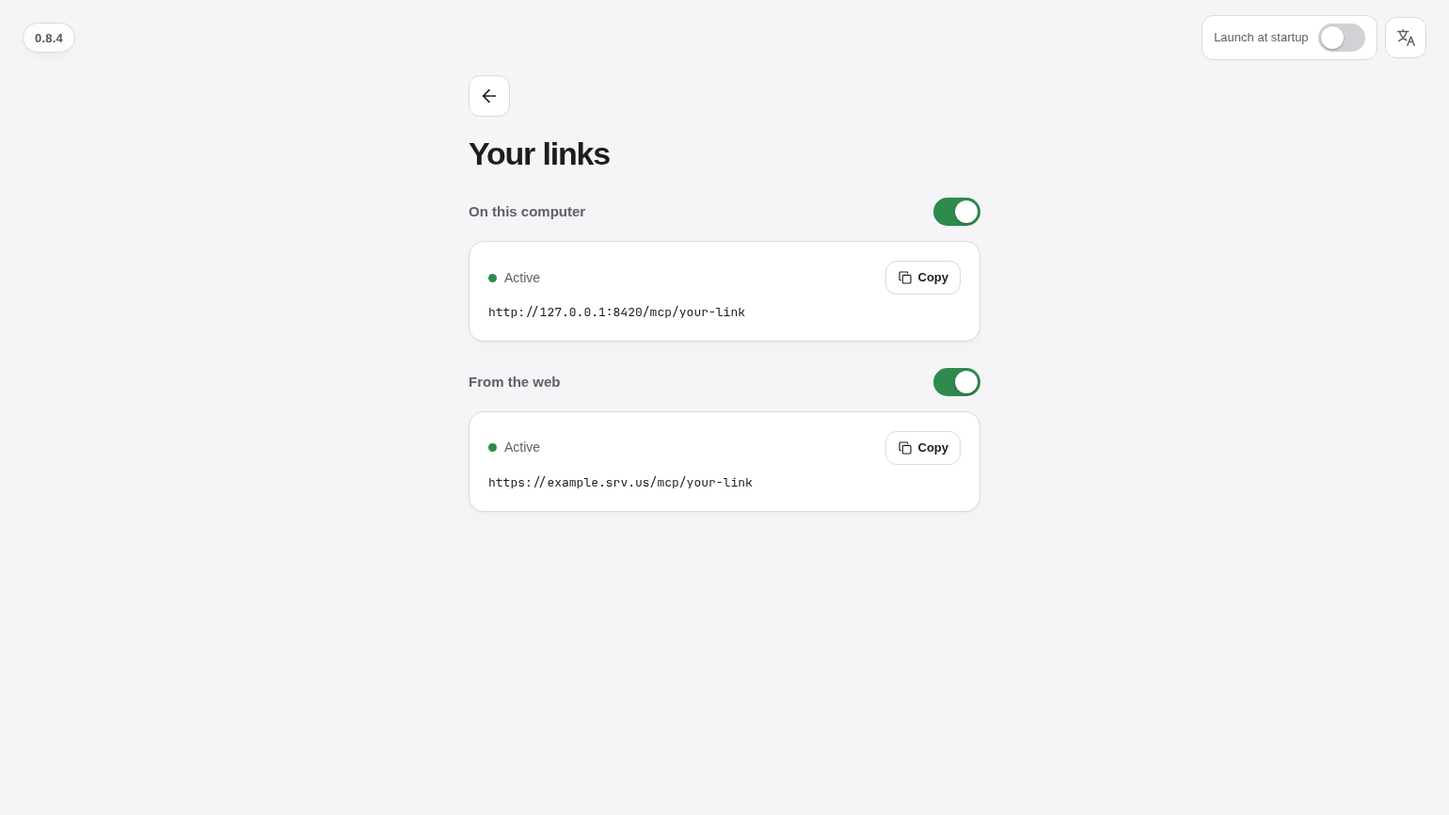
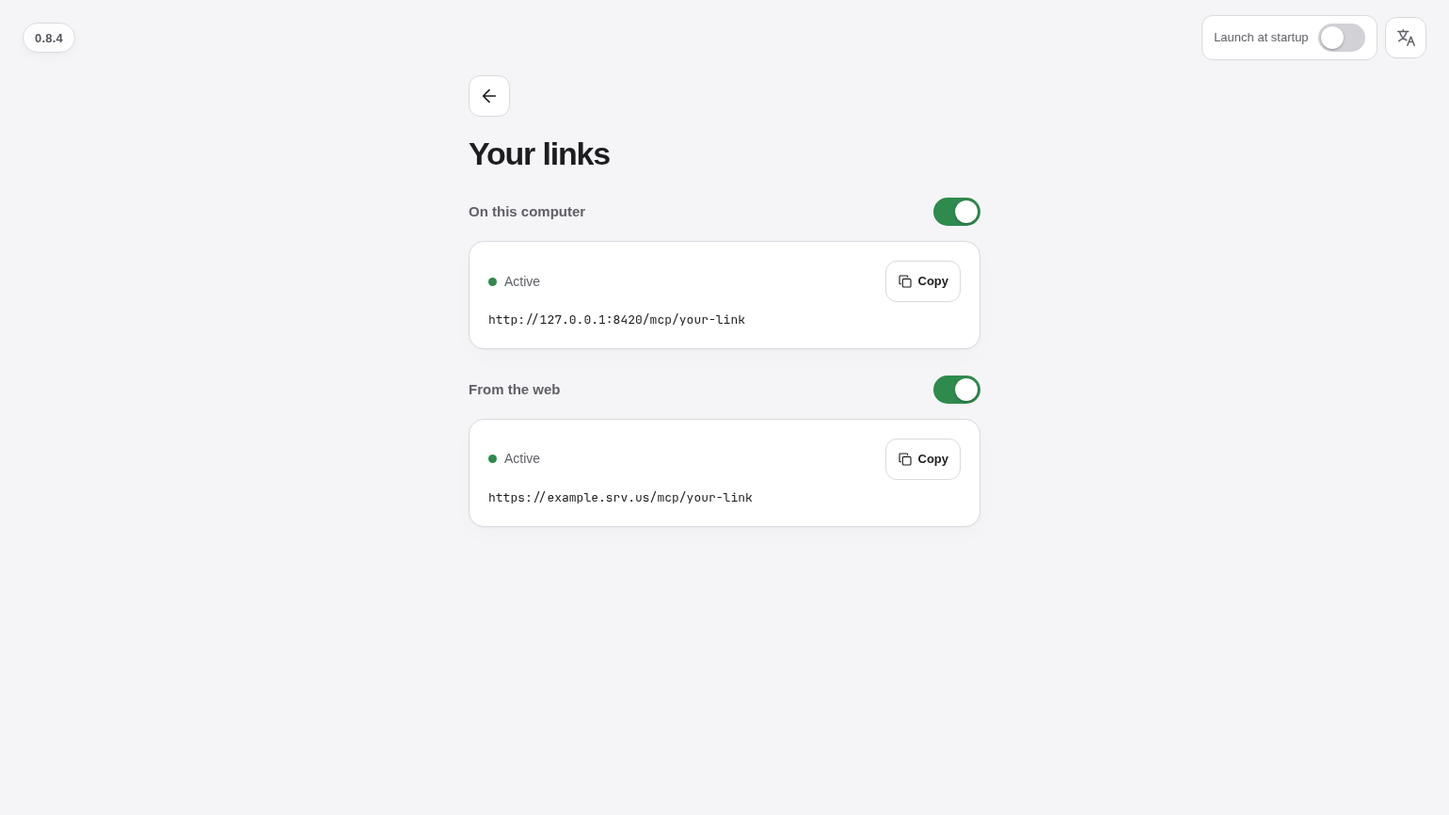
fix: polish assistant setup and home links

diff --git a/src/resources/web/app.js b/src/resources/web/app.js
@@ -7,6 +7,7 @@ if(!languages.includes(language))language='en';
 const translations={
  'Web':['Web','Web'], 'On this computer':['Sur cet ordinateur','En este ordenador'],
  'Choose an assistant app':['Choisis une application assistante','Elige una aplicación asistente'],
+ 'Detected apps':['Applications détectées','Aplicaciones detectadas'], 'Not detected apps':['Applications non détectées','Aplicaciones no detectadas'],
  'Scan again':['Relancer le scan','Volver a buscar'], 'Scanning…':['Recherche…','Buscando…'],
  'Detected':['Détectée','Detectada'], 'Not detected':['Non détectée','No detectada'],
  'Settings saved':['Réglages enregistrés','Ajustes guardados'],
@@ -53,7 +54,7 @@ const translations={
  'Loading tools…':['Chargement des outils…','Cargando herramientas…'],
  'Could not load tools.':['Impossible de charger les outils.','No se pudieron cargar las herramientas.'],
  'No tools available.':['Aucun outil disponible.','No hay herramientas disponibles.'],
-  'Your link':['Ton lien','Tu enlace'], 'Your links':['Tes liens','Tus enlaces'], 'View tools':['Voir les outils','Ver herramientas'], 'Check connection':['Vérifier la connexion','Comprobar conexión'], 'Account information':['Informations du compte','Información de la cuenta'], 'Connection':['Connexion','Conexión'], 'On':['Activé','Activado'], 'Launch at startup':['Lancer au démarrage','Iniciar al arrancar'],
+  'Your link':['Ton lien','Tu enlace'], 'Confirm removal':['Confirmer le retrait','Confirmar retirada'], 'Your links':['Tes liens','Tus enlaces'], 'View tools':['Voir les outils','Ver herramientas'], 'Check connection':['Vérifier la connexion','Comprobar conexión'], 'Account information':['Informations du compte','Información de la cuenta'], 'Connection':['Connexion','Conexión'], 'On':['Activé','Activado'], 'Launch at startup':['Lancer au démarrage','Iniciar al arrancar'],
  'Search your school':['Recherche ton établissement','Busca tu institución'], 'No school found':['Aucun établissement trouvé','No se encontró la institución'],
  'Copy':['Copier','Copiar'],
  'Your assistant':['Ton assistant','Tu asistente'],
@@ -452,28 +453,16 @@ function guideCapture(file,caption){const path='/assets/'+file+'.webp';return `<
  function guideFields(fields){return `<dl class="journey-fields">${fields.map(([label,value])=>`<div class="journey-field"><dt>${t(label)}</dt><dd>${esc(t(value))}</dd></div>`).join('')}</dl>`}
  function guidePath(items){return `<ol class="guide-path" aria-label="${t('Click path')}">${items.map(text=>`<li><span data-server-text>${esc(t(text))}</span></li>`).join('')}</ol>`}
 function guideOpen(id){return `<a class="full-button primary guide-link" href="${assistantInfo[id].settings}" target="_blank" rel="noopener noreferrer">${t('Open '+assistantInfo[id].name+' settings')} <span aria-hidden="true">↗</span></a>`}
-function assistantLocal(id){
- const status=state.assistantStatus,name=localAssistants.items?.find(app=>app.assistant===id)?.name||assistantInfo[id]?.name||id;
- if(!status)return `<div class="assistant-local" id="assistant-local"><p class="busy" role="status">${t('Checking local setup…')}</p><button class="local-close" data-assistant-cancel>${t('Cancel')}</button></div>`;
- if(!status.detected)return `<div class="assistant-local local-unavailable" id="assistant-local"><div class="assistant-local-copy" role="status"><i class="status-dot offline" aria-hidden="true"></i><strong>${esc(name)} · ${t('Not detected')}</strong></div><button class="local-close" data-assistant-cancel>${t('Close')}</button></div>`;
- if(status.configured){
-  const reload=status.reload==='automatic'?t('Settings apply automatically in OpenCode.'):status.reload==='mcp'?t('Reload MCP in the app to use the saved settings.'):t('Restart the assistant to finish setup.');
-  if(state.assistantRemoveConfirm)return `<div class="assistant-local" id="assistant-local"><div class="assistant-confirm"><p>${t('Remove student-mcp from this app? Your other MCP servers stay unchanged and a backup is created.')}</p><div class="assistant-confirm-actions"><button class="full-button secondary" data-assistant-remove-cancel ${state.assistantBusy?'disabled':''}>${t('Cancel')}</button><button class="full-button danger" data-assistant-remove-confirm="${id}" ${state.assistantBusy?'disabled':''}>${state.assistantBusy?t('Removing…'):t('Remove setup')}</button></div></div></div>`;
-  return `<div class="assistant-local" id="assistant-local"><div class="assistant-local-copy"><i class="status-dot" aria-hidden="true"></i><div><strong>${esc(name)} · ${t('Configured')}</strong><p>${reload}</p></div></div><div class="assistant-actions"><button class="text-button" data-assistant-remove="${id}" ${state.assistantBusy?'disabled':''}>${t('Remove setup')}</button><button class="local-close" data-assistant-cancel>${t('Close')}</button></div></div>`;
- }
- return `<div class="assistant-local" id="assistant-local"><div class="assistant-local-copy"><div><strong>${esc(name)}</strong></div></div><div class="assistant-confirm"><p>${t('This updates the assistant’s MCP settings. Your other servers stay unchanged and a backup is created.')}</p><div class="assistant-confirm-actions"><button class="full-button secondary" data-assistant-cancel ${state.assistantBusy?'disabled':''}>${t('Cancel')}</button><button class="full-button primary" data-assistant-confirm="${id}" ${state.assistantBusy?'disabled':''}>${state.assistantBusy?t('Connecting…'):t('Confirm setup')}</button></div></div></div>`;
-}
-
 const localLogos={'claude':'/assets/claude.png','claude-code':'/assets/local-claude-code.png',codex:'/assets/chatgpt.png',gemini:'/assets/gemini.png','grok-build':'/assets/grok.png',opencode:'/assets/local-opencode.png',cursor:'/assets/local-cursor.png',vscode:'/assets/local-vscode.png',windsurf:'/assets/local-windsurf.png',qwen:'/assets/local-qwen.png',pi:'/assets/local-pi.png',omp:'/assets/local-omp.png',kiro:'/assets/local-kiro.png',amp:'/assets/local-amp.png',crush:'/assets/local-crush.png',devin:'/assets/local-devin.png'};
 function localAppCard(app){
  const selected=localAssistants.selected===app.assistant,mark=app.name.replace(/[^A-Za-z0-9]/g,'').slice(0,2),logo=localLogos[app.assistant];
  const visual=logo?`<img class="local-app-logo" src="${logo}" alt="" width="128" height="128" loading="lazy" decoding="async">`:`<span class="local-app-mark" aria-hidden="true">${esc(mark)}</span>`;
- const statusText=t(!app.detected?'Not detected':app.configured?'Configured':'Detected');
- return `<li class="local-app-item${selected?' is-selected':''}"><button class="local-app-card${app.configured?' is-ready':''}" data-local-assistant="${esc(app.assistant)}" aria-pressed="${selected}" ${!app.detected||state.assistantBusy||localAssistants.scanning?'disabled':''}>${visual}<span class="local-app-copy"><span class="local-app-name">${esc(app.name)}</span></span>${selected?'':`<span class="local-app-state">${statusText}</span>`}</button>${selected?`<button class="local-inline-action ${app.configured?'is-remove':'is-setup'}" ${app.configured?`data-assistant-remove="${esc(app.assistant)}"`:`data-assistant-confirm="${esc(app.assistant)}"`} ${state.assistantBusy?'disabled':''}>${t(app.configured?'Remove setup':state.assistantBusy?'Connecting…':'Confirm setup')}</button>`:''}</li>`;
+ const statusText=app.configured?t('Configured'):'';
+ return `<li class="local-app-item${selected?' is-selected':''}"><button class="local-app-card${app.configured?' is-ready':''}" data-local-assistant="${esc(app.assistant)}" aria-pressed="${selected}" ${!app.detected||state.assistantBusy||localAssistants.scanning?'disabled':''}>${visual}<span class="local-app-copy"><span class="local-app-name">${esc(app.name)}</span></span>${!selected&&statusText?`<span class="local-app-state">${statusText}</span>`:''}</button>${selected?`<button class="local-inline-action ${app.configured?'is-remove':'is-setup'}" ${app.configured?`data-assistant-remove="${esc(app.assistant)}"`:`data-assistant-confirm="${esc(app.assistant)}"`} ${state.assistantBusy?'disabled':''}>${t(app.configured?(state.assistantBusy?'Removing…':'Remove setup'):state.assistantBusy?'Connecting…':'Confirm setup')}</button>`:''}</li>`;
 }
 function localAppsScreen(){
  const items=localAssistants.items||[],found=items.filter(app=>app.detected),missing=items.filter(app=>!app.detected);
- return `<section class="local-apps" aria-labelledby="local-apps-title"><header class="local-apps-head"><h2 id="local-apps-title" class="section-label">${t('Choose an assistant app')}</h2><button class="local-scan" data-assistant-scan ${state.assistantBusy||localAssistants.scanning?'disabled':''}>${icon('refresh')}<span>${t(localAssistants.scanning?'Scanning…':'Scan again')}</span></button></header><div role="status" aria-live="polite">${localAssistants.scanning?`<p class="busy">${t('Scanning…')}</p>`:''}${localAssistants.error?`<p class="local-scan-error" role="alert">${esc(localAssistants.error)}</p>`:''}${!localAssistants.scanning&&localAssistants.items&&!found.length?`<p class="local-note">${t('No supported local app was found.')}</p>`:''}</div><ul class="local-app-list">${found.map(localAppCard).join('')}</ul>${localAssistants.selected&&state.assistantRemoveConfirm?assistantLocal(localAssistants.selected):''}${missing.length?`<details class="other-apps"><summary>${t('Other apps')} (${missing.length})</summary><ul class="local-app-list is-muted">${missing.map(localAppCard).join('')}</ul></details>`:''}</section>`;
+ return `<section class="local-apps" aria-labelledby="local-apps-title"><header class="local-apps-head"><h2 id="local-apps-title" class="section-label">${t('Detected apps')}</h2><button class="local-scan" data-assistant-scan ${state.assistantBusy||localAssistants.scanning?'disabled':''}>${icon('refresh')}<span>${t(localAssistants.scanning?'Scanning…':'Scan again')}</span></button></header><div role="status" aria-live="polite">${localAssistants.scanning?`<p class="busy">${t('Scanning…')}</p>`:''}${localAssistants.error?`<p class="local-scan-error" role="alert">${esc(localAssistants.error)}</p>`:''}${!localAssistants.scanning&&localAssistants.items&&!found.length?`<p class="local-note">${t('No supported local app was found.')}</p>`:''}</div><ul class="local-app-list">${found.map(localAppCard).join('')}</ul>${missing.length?`<details class="other-apps"><summary>${t('Not detected apps')} (${missing.length})</summary><ul class="local-app-list is-muted">${missing.map(localAppCard).join('')}</ul></details>`:''}</section>`;
 }
 
 async function scanAssistants(){if(localAssistants.scanning||state.assistantBusy)return;localAssistants.scanning=true;localAssistants.error=null;localAssistants.selected=null;state.assistantConfirm=false;render();try{const result=await api('/assistants');localAssistants.items=result.assistants}catch(error){localAssistants.error=error.message}finally{localAssistants.scanning=false;if(state.screen==='assistant')render()}}
@@ -503,7 +492,7 @@ function assistantGuide(id){
 }
 function assistantScreen(){
   const id=state.assistant,info=assistantInfo[id],step=assistantJourney.step;
-  const heading=`<header class="assistant-heading"><div class="page-nav"><button class="back" data-screen="home" aria-label="${t('Back to services')}">${icon('back')}</button></div><h1>${t('Set up an assistant')}</h1></header>${assistantModes()}`;
+  const heading=`<header class="assistant-heading">${pageNav('home','Back to services')}<h1>${t('Set up an assistant')}</h1></header>${assistantModes()}`;
   if(localAssistants.mode==='local')return `<section style="--accent:var(--blue)">${heading}${localAppsScreen()}${notice()}</section>`;
  const labels=['Open settings','Add the server','Ask a question'],short=['Settings','Connect','Try it'];
  const guide=assistantGuide(id);
@@ -512,7 +501,7 @@ function assistantScreen(){
 async function openAssistant(id){if(!assistantInfo[id]||state.assistantBusy)return;localAssistants.mode='web';state.assistant=id;assistantJourney.step=0;state.assistantStatus=null;state.assistantConfirm=false;state.assistantRemoveConfirm=false;state.notice=null;state.screen='assistant';render()}
 async function configureAssistant(id){if(state.assistantBusy||localAssistants.selected!==id||localAssistants.items.find(app=>app.assistant===id)?.configured)return;state.assistantBusy=true;state.notice=null;render();try{const status=await api('/action',{action:'assistant_setup',assistant:id});state.assistantStatus=status;state.assistantConfirm=false;localAssistants.items=localAssistants.items.map(app=>app.assistant===id?{...app,...status}:app)}catch(error){state.notice={text:error.message,error:true}}finally{state.assistantBusy=false;if(state.screen==='assistant'){render();if(localAssistants.mode==='local')document.querySelector('.local-inline-action')?.focus({preventScroll:true})}}}
 async function removeAssistant(id){
- if(state.assistantBusy||localAssistants.selected!==id||!state.assistantRemoveConfirm)return;
+ if(state.assistantBusy||localAssistants.selected!==id||!localAssistants.items.find(app=>app.assistant===id)?.configured)return;
  state.assistantBusy=true;state.notice=null;render();
  try{
   const status=await api('/action',{action:'assistant_remove',assistant:id});
@@ -828,7 +817,7 @@ function findField(){const query=state.draft.school||'';const matches=schoolMatc
 // Mise à jour en place : re-rendre l'écran déplacerait le curseur au début du champ.
 function renderFindList(){const input=$('school-find');if(!input)return;const query=state.draft.school||'';const matches=schoolMatches(query);const find=input.closest('.find');let list=find.querySelector('.find-list');if(query.trim().length<2){list?.remove();input.setAttribute('aria-expanded','false');input.removeAttribute('aria-activedescendant');return}if(!list){list=document.createElement('div');list.className='find-list';list.id='find-list';list.setAttribute('role','listbox');list.setAttribute('aria-label',t('Search your school'));find.appendChild(list)}list.innerHTML=findRows(matches);input.setAttribute('aria-expanded','true');if(state.schoolIndex>=0)input.setAttribute('aria-activedescendant','find-opt-'+state.schoolIndex);else input.removeAttribute('aria-activedescendant')}
 function mapLines(){return `<svg class="map-lines" aria-hidden="true"><defs><linearGradient id="map-branch-gradient" gradientUnits="userSpaceOnUse" x1="0" y1="0" x2="1" y2="1"><stop offset="0" stop-color="#b7c9dc"/><stop offset="1" stop-color="#7899bd"/></linearGradient></defs><g class="map-paths"></g></svg>`}
-function home(){const tiles=['moodle','omnivox','brightspace','canvas'].map(s=>{const ofService=state.accounts.filter(a=>a.service===s),connected=ofService.length>0,enabled=ofService.some(a=>a.enabled!==false);return `<button class="tile ${connected?'connected':''} ${connected&&!enabled?'service-off':''}" data-open="${s}" aria-label="${names[s]} ${connected?'manage connection':'connect'}"><img src="/assets/${s}.png" alt=""><span>${names[s]}</span>${connected?'<i class="dot"></i>':''}</button>`}).join('');const ready=state.tunnel.startsWith('Ready(');const value=ready?state.link:state.tunnel.startsWith('Starting')?t('Creating your public link…'):state.tunnel.startsWith('Reconnecting')?t('Reconnecting your public link…'):state.tunnel.startsWith('Failed')?t('Unavailable'):state.tunnel==='Stopped'?t('Off'):t('Connect a service to create your link');return `<section class="home"><h1 class="sr-only">${t('Student MCP')}</h1>${findField()}<div class="mind-map">${mapLines()}<div class="tiles">${tiles}</div><div class="link-card"><button class="link-open" data-copy="home" aria-label="${t('Copy link')}" ${ready?'':'disabled'}><span class="link-title">${t('Your public link')}</span><span class="link-value">${esc(value)}</span></button><button class="icon-button copy-home" data-screen="links" aria-label="${t('Open link settings')}" title="${t('Open link settings')}">${icon('settings')}</button></div><div class="ais"><button class="assistant-entry" data-assistant-choose>${icon('spark')}<span>${t('Set up an assistant')}</span><span class="assistant-entry-arrow" aria-hidden="true">›</span></button></div></div>${notice()}</section>`}
+function home(){const tiles=['moodle','omnivox','brightspace','canvas'].map(s=>{const ofService=state.accounts.filter(a=>a.service===s),connected=ofService.length>0,enabled=ofService.some(a=>a.enabled!==false);return `<button class="tile ${connected?'connected':''} ${connected&&!enabled?'service-off':''}" data-open="${s}" aria-label="${names[s]} ${connected?'manage connection':'connect'}"><img src="/assets/${s}.png" alt=""><span>${names[s]}</span>${connected?'<i class="dot"></i>':''}</button>`}).join('');const ready=state.tunnel.startsWith('Ready(');const value=ready?state.link:state.tunnel.startsWith('Starting')?t('Creating your public link…'):state.tunnel.startsWith('Reconnecting')?t('Reconnecting your public link…'):state.tunnel.startsWith('Failed')?t('Unavailable'):state.tunnel==='Stopped'?t('Off'):t('Connect a service to create your link');return `<section class="home"><h1 class="sr-only">${t('Student MCP')}</h1>${findField()}<div class="mind-map">${mapLines()}<div class="tiles">${tiles}</div><div class="link-card"><button class="link-open" data-screen="links" aria-label="${t('Open link settings')}"><span class="link-title">${t('Your public link')}</span><span class="link-value">${esc(value)}</span></button><button class="copy-pill copy-home" data-copy="home" aria-label="${t('Copy link')}" ${ready?'':'disabled'}>${icon('copy')}<span>${t('Copy')}</span></button></div><div class="ais"><button class="assistant-entry" data-assistant-choose>${icon('spark')}<span>${t('Set up an assistant')}</span><span class="assistant-entry-arrow" aria-hidden="true">›</span></button></div></div>${notice()}</section>`}
 let mindMapFrame=0;
 function scheduleMindMap(){cancelAnimationFrame(mindMapFrame);mindMapFrame=requestAnimationFrame(drawMindMap)}
 function drawMindMap(){
@@ -975,7 +964,7 @@ document.addEventListener('click',async e=>{
   if(e.target.closest('[data-assistant-scan]')){await scanAssistants();return}
   const localApp=e.target.closest('[data-local-assistant]');if(localApp&&!state.assistantBusy&&!localAssistants.scanning){localAssistants.selected=localAssistants.selected===localApp.dataset.localAssistant?null:localApp.dataset.localAssistant;state.assistantStatus=localAssistants.items.find(app=>app.assistant===localAssistants.selected);state.assistantConfirm=false;state.assistantRemoveConfirm=false;state.notice=null;render();if(localAssistants.selected)document.querySelector('.local-inline-action')?.focus();return}
   const assistantConfirm=e.target.closest('[data-assistant-confirm]');if(assistantConfirm&&!state.assistantBusy){await configureAssistant(assistantConfirm.dataset.assistantConfirm);return}
-  const assistantRemove=e.target.closest('[data-assistant-remove]');if(assistantRemove&&!state.assistantBusy){state.assistantRemoveConfirm=true;state.notice=null;render();return}
+  const assistantRemove=e.target.closest('[data-assistant-remove]');if(assistantRemove&&!state.assistantBusy){await removeAssistant(assistantRemove.dataset.assistantRemove);return}
   if(e.target.closest('[data-assistant-remove-cancel]')&&!state.assistantBusy){state.assistantRemoveConfirm=false;render();return}
   const assistantRemoveConfirm=e.target.closest('[data-assistant-remove-confirm]');if(assistantRemoveConfirm&&!state.assistantBusy){await removeAssistant(assistantRemoveConfirm.dataset.assistantRemoveConfirm);return}
   if(e.target.closest('[data-assistant-cancel]')&&!state.assistantBusy){const id=localAssistants.selected;state.assistantConfirm=false;state.assistantRemoveConfirm=false;render();document.querySelector(`[data-local-assistant="${id}"]`)?.focus({preventScroll:true});return}
@@ -1022,6 +1011,7 @@ document.addEventListener('click',async e=>{
 });
 function connectReady(form){const v=Object.fromEntries(new FormData(form)),a=selected();if(state.service==='moodle')return !!v.username&&!!v.password;if(state.service==='omnivox')return !!(v.url||a?.url)&&!!v.username&&!!v.password;if(state.service==='brightspace')return brightspaceReady(v,a);return !!(v.url||a?.url)&&(!!v.token||!!v.username&&!!v.password)}
 document.addEventListener('submit',e=>{if(e.target.id!=='profile-name-form')return;e.preventDefault();send({action:'rename_account',service:state.service,id:state.accountId,name:e.target.elements.profile_name.value}).then(()=>{if(state.screen==='service')document.querySelector(state.renaming?'#f-profile_name':'.account-row.active [data-account]')?.focus()})});
+document.addEventListener('keydown',e=>{if(e.key==='Escape'&&state.assistantRemoveConfirm&&!state.assistantBusy){e.preventDefault();state.assistantRemoveConfirm=false;render();document.querySelector('[data-assistant-remove]')?.focus()}});
 document.addEventListener('keydown',e=>{if(e.target.id==='f-profile_name'&&e.key==='Escape'){e.preventDefault();state.renaming=false;delete state.draft.profile_name;render();document.querySelector('.account-row.active [data-account]')?.focus()}});
 document.addEventListener('focusout',e=>{if(e.target.id!=='f-profile_name'||!state.renaming||state.busy||!e.target.isConnected)return;const name=e.target.value;if(name===(selected()?.name||'')){state.renaming=false;delete state.draft.profile_name;render();return}send({action:'rename_account',service:state.service,id:state.accountId,name})});
   document.addEventListener('change',e=>{if(e.target.name==='local'||e.target.name==='public'){const local=e.target.name==='local'?e.target.checked:state.local,publicOn=e.target.name==='public'?e.target.checked:state.public,version=++linksVersion;state.local=local;state.public=publicOn;if(e.target.name==='public')state.tunnel=publicOn?'Starting':'Stopped';linksPending++;const card=document.querySelector('[data-link-card="'+e.target.name+'"]');if(card){card.outerHTML=e.target.name==='local'?localCard():publicCard();localize($('screen'))}else render();linksQueue=linksQueue.catch(()=>{}).then(()=>api('/action',{action:'links',local,public:publicOn})).then(async()=>{if(version===linksVersion){linksPending=0;await refresh()}},async err=>{if(version===linksVersion){linksPending=0;state.notice={text:err.message,error:true};await refresh();render()}})}else if(e.target.name==='autostart'){state.autostart=e.target.checked;send({action:'autostart',enabled:state.autostart})}else if(e.target.name==='service_enabled'){const id=e.target.dataset.accountId||selected()?.id;if(id){const account=state.accounts.find(a=>a.service===state.service&&a.id===id);if(account)account.enabled=e.target.checked;send({action:'service_enabled',service:state.service,id,enabled:e.target.checked})}}});

diff --git a/src/resources/web/app.css b/src/resources/web/app.css
@@ -12,7 +12,10 @@ h1{font-size:clamp(2rem,6vw,2.75rem);line-height:1.1;letter-spacing:-.035em;font
 .link-card{margin:clamp(3rem,10vh,5rem) 0 0;width:100%;padding:0;min-height:0;display:flex;flex-direction:row;align-items:center;border-radius:1.25rem;background:#ffffffbf;backdrop-filter:blur(20px) saturate(150%);text-align:left;color:inherit}
 .link-open{flex:1;min-width:0;text-align:left;border:0;background:transparent;padding:1.25rem;color:inherit;border-radius:1.25rem;display:flex;flex-direction:column;gap:.35rem}
 .link-title{font-size:.9375rem;font-weight:600}.link-value{font: .8125rem/1.5 system-ui,sans-serif;margin:0;color:var(--subtle)}
-.copy-home{position:static;flex-shrink:0;margin-right:.75rem}
+.copy-home{position:absolute;top:1.25rem;right:1.25rem;margin:0}
+.link-open{width:100%;padding-right:1.25rem}
+.link-open .link-title{min-height:var(--button-height);display:flex;align-items:center;padding-right:6.5rem}
+.link-open .link-value{width:100%;overflow-wrap:anywhere}
 .icon-button,.field-head .eye,.field-head .help{position:static;width:44px;height:44px;flex-shrink:0;padding:0}.icon-button{border-radius:.75rem}
 .eye-slash[hidden]{display:none}
 .service-head{padding-top:0;margin-bottom:2rem}.service-head h1{font-size:2.125rem;font-weight:650;letter-spacing:-.03em}.logo-frame{width:4.5rem;height:4.5rem;border-radius:1.25rem;margin-bottom:1.25rem}
@@ -229,7 +232,7 @@ button{transition:background 140ms ease-out,transform 140ms ease-out}button:acti
 .node-state{display:flex;align-items:center;gap:.5rem;flex:1;min-width:0;font-size:.8125rem;color:var(--subtle)}
 .node-dot{width:.5rem;height:.5rem;border-radius:50%;background:var(--green);flex:none}
 .node-dot.wait{background:#c99a35}.node-dot.bad{background:var(--red)}.node-dot.idle{background:#b9b9c1}
-.copy-pill{display:inline-flex;align-items:center;gap:.375rem;height:2.25rem;padding:0 .75rem;border:1px solid var(--border);border-radius:999px;background:#fff;color:var(--ink);font-size:.8125rem;font-weight:600;flex:none}
+.copy-pill{display:inline-flex;align-items:center;justify-content:center;gap:.375rem;min-height:var(--button-height);height:auto;padding:0 .75rem;border:1px solid var(--border);border-radius:999px;background:#fff;color:var(--ink);font-size:.8125rem;font-weight:600;flex:none}
 .copy-pill svg{display:block;width:1rem;height:1rem;fill:none;stroke:currentColor;stroke-width:1.7;stroke-linecap:round;stroke-linejoin:round}
 .copy-pill.copy-confirmed{color:var(--green);border-color:#bcdcc6;background:#f2f9f4}
 .service-enabled-copy{display:flex;flex-direction:column;gap:.125rem;min-width:0;text-align:left}
@@ -256,7 +259,7 @@ button{transition:background 140ms ease-out,transform 140ms ease-out}button:acti
 .journey-node[aria-current="step"]{background:var(--hover);color:var(--ink);font-weight:600}.journey-node[aria-current="step"] .journey-number{background:var(--accent);border-color:var(--accent);color:var(--white)}
 .journey-short{display:none}.setup-stage{padding:2rem;min-width:0}.setup-stage h2{font-size:1.625rem;line-height:1.2;font-weight:650;letter-spacing:-.025em;margin:0}
 .setup-content{margin-top:1.5rem}.setup-note{margin:1rem 0 0;font-size:.9375rem;line-height:1.55;color:var(--ink)}
-.setup-link{padding:1.125rem;border-radius:1rem;background:var(--canvas);display:flex;align-items:center;gap:1rem}.setup-link>div{flex:1;min-width:0}.setup-link-label{font-size:.875rem;font-weight:600;color:var(--ink);display:block;margin-bottom:.5rem}.setup-link code{display:block;font-size:.875rem;line-height:1.65;overflow-wrap:anywhere;color:var(--ink)}.setup-link .copy-pill{min-height:44px;border-radius:.625rem;height:auto}
+.setup-link{padding:1.125rem;border-radius:1rem;background:var(--canvas);display:flex;align-items:center;gap:1rem}.setup-link>div{flex:1;min-width:0}.setup-link-label{font-size:.875rem;font-weight:600;color:var(--ink);display:block;margin-bottom:.5rem}.setup-link code{display:block;font-size:.875rem;line-height:1.65;overflow-wrap:anywhere;color:var(--ink)}.setup-link .copy-pill{min-height:var(--button-height);height:auto}
 .guide-path{display:flex;align-items:center;flex-wrap:wrap;gap:.5rem .75rem;list-style:none;margin:1.25rem 0 0;padding:0;font-size:.9375rem;line-height:1.5;color:var(--ink)}.guide-path li{display:flex;align-items:center;gap:.75rem;min-width:0}.guide-path li+li::before{content:"→";color:var(--muted)}.guide-path span{overflow-wrap:anywhere}.guide-path li:last-child{font-weight:600}
 .guide-capture{margin:1.25rem 0 0}.guide-shot-link{display:block;width:100%;padding:0;border:0;border-radius:1rem;background:none;cursor:zoom-in}.guide-shot{display:block;width:100%;height:auto;border-radius:1rem}
 .journey-fields{display:grid;margin:0;border-top:1px solid var(--border);font-size:.9375rem;line-height:1.6}.journey-field{display:grid;grid-template-columns:9rem minmax(0,1fr);gap:1rem;padding:1rem 0;border-bottom:1px solid var(--border)}.journey-field dt{color:var(--ink);font-weight:500}.journey-field dd{margin:0;overflow-wrap:anywhere;font-weight:600}.journey-field code{font-size:.875rem}.setup-link+.journey-fields{margin-top:1.25rem}
@@ -290,7 +293,7 @@ button{transition:background 140ms ease-out,transform 140ms ease-out}button:acti
 }
 .assistant-view .primary{background:var(--accent);color:var(--white)}
 .assistant-view .guide-link:hover{filter:brightness(.92)}
-.assistant-view .copy-pill{color:var(--accent)}
+.assistant-view .copy-pill{color:var(--ink)}
 .assistant-view .guide-path li:last-child{color:var(--accent)}
 .assistant-view .setup-link-label{color:var(--accent)}
 .assistant-local{display:grid;gap:1rem;padding:1.25rem;margin-bottom:1.25rem;border:1px solid var(--border);border-radius:1rem;background:var(--white)}.assistant-local-copy{display:flex;align-items:flex-start;gap:.75rem}.assistant-local-copy .status-dot{margin-top:.45em;flex:none}.assistant-local-copy>div{min-width:0}.assistant-local-copy strong{font-size:.9375rem;font-weight:600}.assistant-local-copy p{margin:.25rem 0 0;color:var(--ink);font-size:.9375rem;line-height:1.55}.assistant-local .full-button{display:flex;align-items:center;justify-content:center;gap:.5rem;margin:0}.assistant-local .full-button svg{width:1.125rem;height:1.125rem;fill:none;stroke:currentColor;stroke-width:1.8;flex:none}.assistant-local .local-close{justify-self:start;align-self:start;width:auto;min-height:44px;padding:.5rem 0;border:0;background:none;color:var(--ink);font-size:.9375rem;font-weight:600}
@@ -309,7 +312,7 @@ button{transition:background 140ms ease-out,transform 140ms ease-out}button:acti
 .local-apps header .assistant-local-toggle{width:auto;flex:none;min-height:44px}
 
 /* Consistency pass: one chrome, one radius scale, one green, one focus ring. */
-:root{--radius-sm:.75rem;--radius-md:1rem;--radius-lg:1.5rem;--h1-size:clamp(1.75rem,4.2vw,2.125rem);--green:#2f8a4d;--green-soft:#e8f5eb;--green-border:#b6d5bf}
+:root{--radius-sm:.75rem;--radius-md:1rem;--radius-lg:1.5rem;--button-height:44px;--button-compact-height:36px;--success-surface:#edf8f0;--success-selected:#e4f4e9;--success-border:#9dcaaa;--success-ink:#226d3c;--h1-size:clamp(1.75rem,4.2vw,2.125rem);--green:#2f8a4d;--green-soft:#e8f5eb;--green-border:#b6d5bf}
 .global-bar{position:fixed;top:0;left:0;right:0;display:flex;align-items:center;justify-content:space-between;gap:.75rem;padding:max(1rem,env(safe-area-inset-top)) max(1.5rem,env(safe-area-inset-right)) 0 max(1.5rem,env(safe-area-inset-left));z-index:20;pointer-events:none}
 .global-bar>*{pointer-events:auto;min-width:0}
 .global-actions{display:flex;align-items:center;gap:.5rem;margin-left:auto;min-width:0}
@@ -405,37 +408,47 @@ button:focus-visible,input:focus-visible,select:focus-visible,summary:focus-visi
 .language-menu button:focus-visible{outline:2px solid var(--blue);outline-offset:-2px}
 @media(pointer:coarse){.language-menu button{min-height:44px}}
 
-/* The selected app's setup summary is one compact, supporting panel. */
-.local-apps .assistant-local:has(.assistant-actions){display:flex;align-items:center;justify-content:space-between;gap:1rem 1.5rem;padding:1rem;margin-top:1rem;border:0;border-radius:var(--radius-sm);background:var(--canvas)}
-.local-apps .assistant-local:has(.assistant-actions) .assistant-local-copy{gap:.625rem;min-width:0}
-.local-apps .assistant-local:has(.assistant-actions) .assistant-local-copy strong{font-size:.875rem;font-weight:550;line-height:1.4;letter-spacing:-.01em}
-.local-apps .assistant-local:has(.assistant-actions) .assistant-local-copy p{margin:.25rem 0 0;font-size:.8125rem;line-height:1.5;color:var(--subtle)}
-.local-apps .assistant-actions{flex:none;justify-content:flex-end;gap:.5rem}
-.local-apps .assistant-actions .text-button[data-assistant-remove]{border:0;background:transparent;padding:.5rem .75rem;font-size:.8125rem;font-weight:500}
-.local-apps .assistant-actions .local-close{align-self:center;padding:.5rem .875rem;min-height:44px;border:1px solid var(--border);border-radius:var(--radius-sm);background:var(--white);font-size:.8125rem;font-weight:550}
-@media(hover:hover) and (pointer:fine){.local-apps .assistant-actions .text-button[data-assistant-remove]:hover{background:var(--red-soft)}.local-apps .assistant-actions .local-close:hover{background:var(--hover)}}
-@media(max-width:52rem){.local-apps .assistant-local:has(.assistant-actions){flex-direction:column;align-items:stretch;gap:.625rem}.local-apps .assistant-actions{justify-content:flex-start;padding-left:1.125rem}}
-
 /* Configured assistants use the same open layout as setup confirmation. */
-.local-app-card.is-ready{background:#edf8f0;box-shadow:none}
-.local-app-card.is-ready .local-app-state{color:#226d3c;font-weight:600}
-.local-app-card.is-ready[aria-pressed="true"]{background:#e4f4e9;box-shadow:inset 0 0 0 1px #9dcaaa}
-@media(hover:hover) and (pointer:fine){.local-app-card.is-ready:not(:disabled):hover{background:#e4f4e9}.local-app-card.is-ready[aria-pressed="true"]:hover{background:#dcefe2}}
-.local-apps .assistant-local:has(.assistant-actions){display:grid;gap:1rem;padding:1rem 0 0;margin-top:1rem;border:0;border-top:1px solid var(--border);border-radius:0;background:transparent}
-.local-apps .assistant-local:has(.assistant-actions) .assistant-local-copy{gap:.625rem}
-.local-apps .assistant-local:has(.assistant-actions) .assistant-local-copy strong{font-size:.9375rem;font-weight:600;line-height:1.4}
-.local-apps .assistant-local:has(.assistant-actions) .assistant-local-copy p{margin:.5rem 0 0;font-size:.9375rem;line-height:1.55}
-.local-apps .assistant-local:has(.assistant-actions) .status-dot{width:.625rem;height:.625rem;margin-top:.4em}
-.local-apps .assistant-actions{display:flex;align-items:stretch;gap:.75rem;padding:0}
-.local-apps .assistant-actions .text-button[data-assistant-remove],.local-apps .assistant-actions .local-close{flex:1;min-width:0;min-height:44px;padding:.625rem 1rem;border:1px solid var(--border);border-radius:var(--radius-sm);background:var(--white);font-size:.875rem;font-weight:600;text-align:center}
-.local-apps .assistant-actions .text-button[data-assistant-remove]{color:var(--red)}
-@media(hover:hover) and (pointer:fine){.local-apps .assistant-actions .text-button[data-assistant-remove]:hover{background:var(--red-soft)}.local-apps .assistant-actions .local-close:hover{background:var(--hover)}}
-
+.local-app-card.is-ready{background:var(--success-surface);box-shadow:none}
+.local-app-card.is-ready .local-app-state{color:var(--success-ink);font-weight:600}
+.local-app-card.is-ready[aria-pressed="true"]{background:var(--success-selected);box-shadow:inset 0 0 0 1px var(--success-border)}
+@media(hover:hover) and (pointer:fine){.local-app-card.is-ready:not(:disabled):hover{background:var(--success-selected)}.local-app-card.is-ready[aria-pressed="true"]:hover{background:#dcefe2}}
 /* Inline action for the selected local assistant. */
 .local-app-item{position:relative;min-width:0}
 .local-app-item.is-selected .local-app-card{padding-right:8.5rem;grid-template-columns:2rem minmax(0,1fr)}
-.local-inline-action{position:absolute;right:.5rem;top:50%;transform:translateY(-50%);min-height:36px;padding:.4rem .75rem;border:0;border-radius:var(--radius-sm);font-size:.8125rem;font-weight:600;white-space:nowrap}
-.local-inline-action.is-setup{background:var(--blue);color:white}
+.local-inline-action{position:absolute;right:.5rem;top:50%;transform:translateY(-50%);min-height:var(--button-compact-height);padding:.4rem .75rem;border:0;border-radius:var(--radius-sm);font-size:.8125rem;font-weight:600;white-space:nowrap}
+.local-inline-action.is-setup{background:var(--blue);color:var(--white)}
 .local-inline-action.is-remove{background:var(--red);color:var(--white);box-shadow:none}
 .local-inline-action:focus-visible{outline:2px solid var(--blue);outline-offset:2px}
 @media(max-width:22rem){.local-app-item.is-selected .local-app-card{padding-right:7.5rem}.local-inline-action{padding:.4rem .5rem;font-size:.75rem}}
+
+/* Shared button dimensions and feedback across screens. */
+:is(.full-button,.small-button,.copy-pill,.setup-footer button,.local-inline-action){border-radius:var(--radius-sm);font-weight:600;line-height:1.25}
+:where(.back,.icon-button){min-width:var(--button-height);min-height:var(--button-height)}
+:where(.copy-pill,.local-inline-action):disabled{cursor:default;opacity:.55}
+.assistant-view .copy-pill.copy-confirmed{color:var(--green)}
+
+/* Semantic action families: primary, secondary, destructive and icon-only. */
+:is(.full-button.primary,.setup-footer .setup-next,.local-inline-action.is-setup){background:var(--blue);color:var(--white);border:1px solid transparent}
+:is(.full-button.secondary,.setup-footer .setup-previous,.copy-pill){background:var(--white);color:var(--ink);border:1px solid var(--border)}
+:is(.full-button.danger,.local-inline-action.is-remove){background:var(--red);color:var(--white);border:1px solid transparent}
+:is(.full-button,.setup-footer button){min-height:var(--button-height);padding:.625rem 1rem;font-size:.9375rem}
+:is(.copy-pill,.local-inline-action){font-size:.8125rem}
+:is(.back,.icon-button){border-radius:var(--radius-sm)}
+:is(.full-button,.setup-footer button,.copy-pill,.local-inline-action):disabled{opacity:.55;cursor:default}
+@media(hover:hover) and (pointer:fine){
+ :is(.full-button.primary,.setup-footer .setup-next,.local-inline-action.is-setup):not(:disabled):hover{background:#0055aa;color:var(--white)}
+ :is(.full-button.secondary,.setup-footer .setup-previous,.copy-pill):not(:disabled):hover{background:var(--hover);color:var(--ink)}
+ :is(.full-button.danger,.local-inline-action.is-remove):not(:disabled):hover{background:#901c24;color:var(--white)}
+}
+.assistant-view .copy-pill.copy-confirmed{color:var(--green)}
+
+/* Keep each web assistant’s own accent for its primary actions. */
+.assistant-view :is(.full-button.primary,.setup-footer .setup-next){background:var(--accent);color:var(--white)}
+@media(hover:hover) and (pointer:fine){.assistant-view :is(.full-button.primary,.setup-footer .setup-next):not(:disabled):hover{background:var(--accent);filter:brightness(.9)}}
+
+.local-inline-action:active:not(:disabled){transform:translateY(-50%) scale(.98)}
+@media(prefers-reduced-motion:reduce){.local-inline-action:active:not(:disabled){transform:translateY(-50%)}}
+/* Copy feedback uses the original green confirmation in every context. */
+.copy-pill.copy-confirmed,.assistant-view .copy-pill.copy-confirmed{color:var(--green);border-color:#bcdcc6;background:#f2f9f4}
+@media(hover:hover) and (pointer:fine){.copy-pill.copy-confirmed:not(:disabled):hover{color:var(--green);border-color:#bcdcc6;background:#f2f9f4}}
